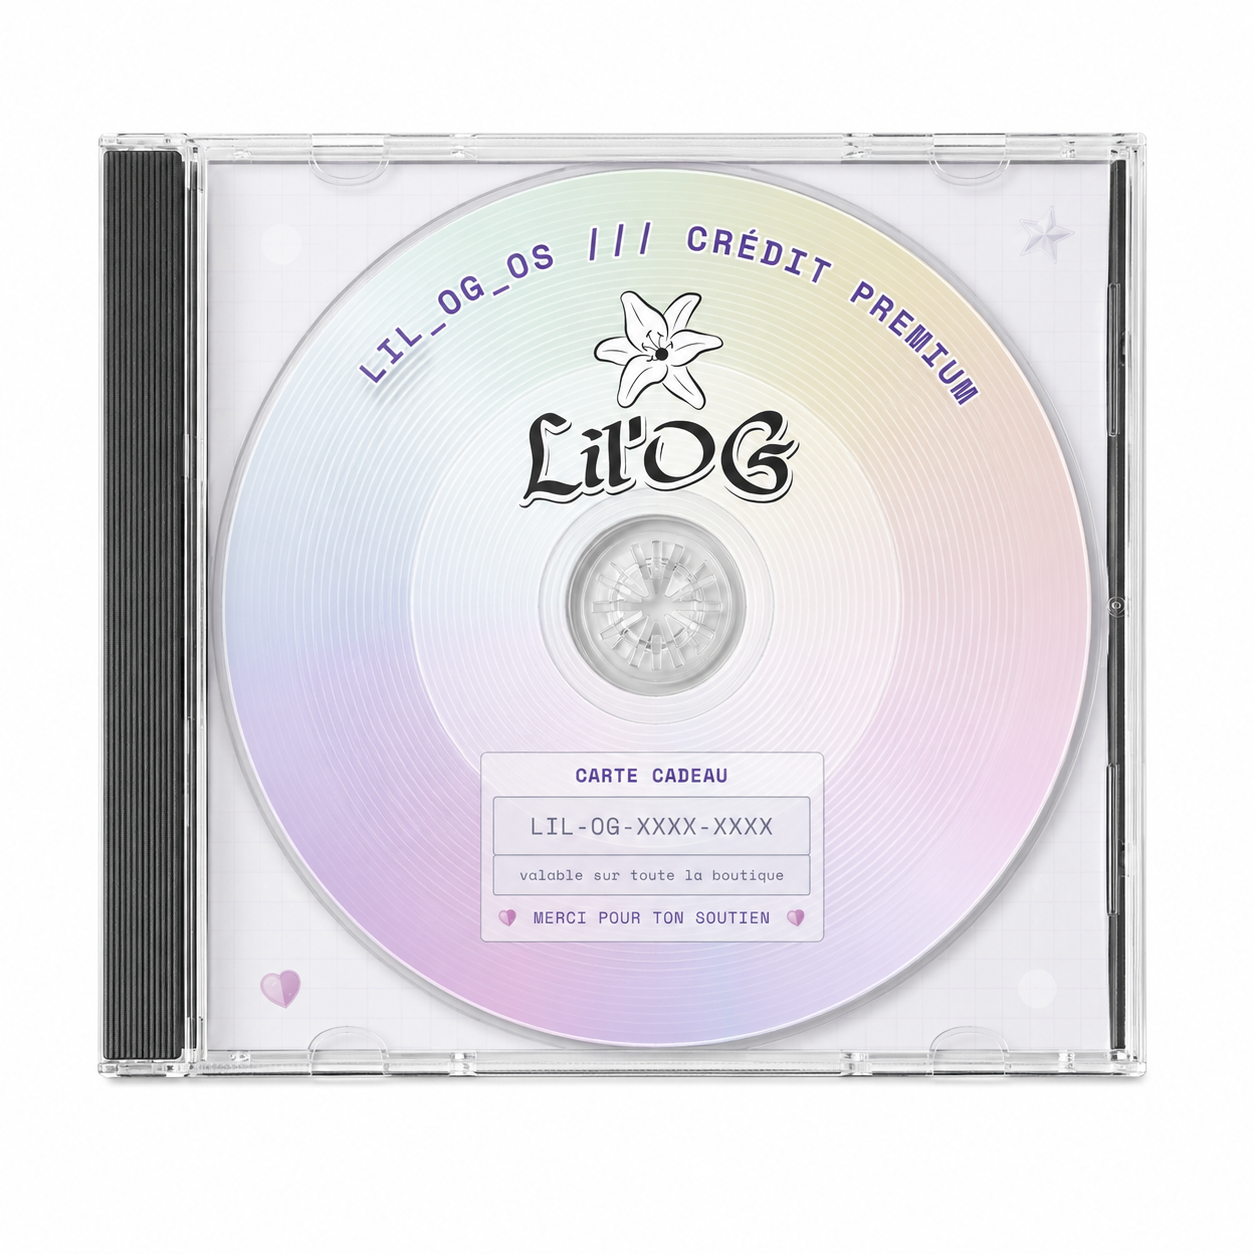
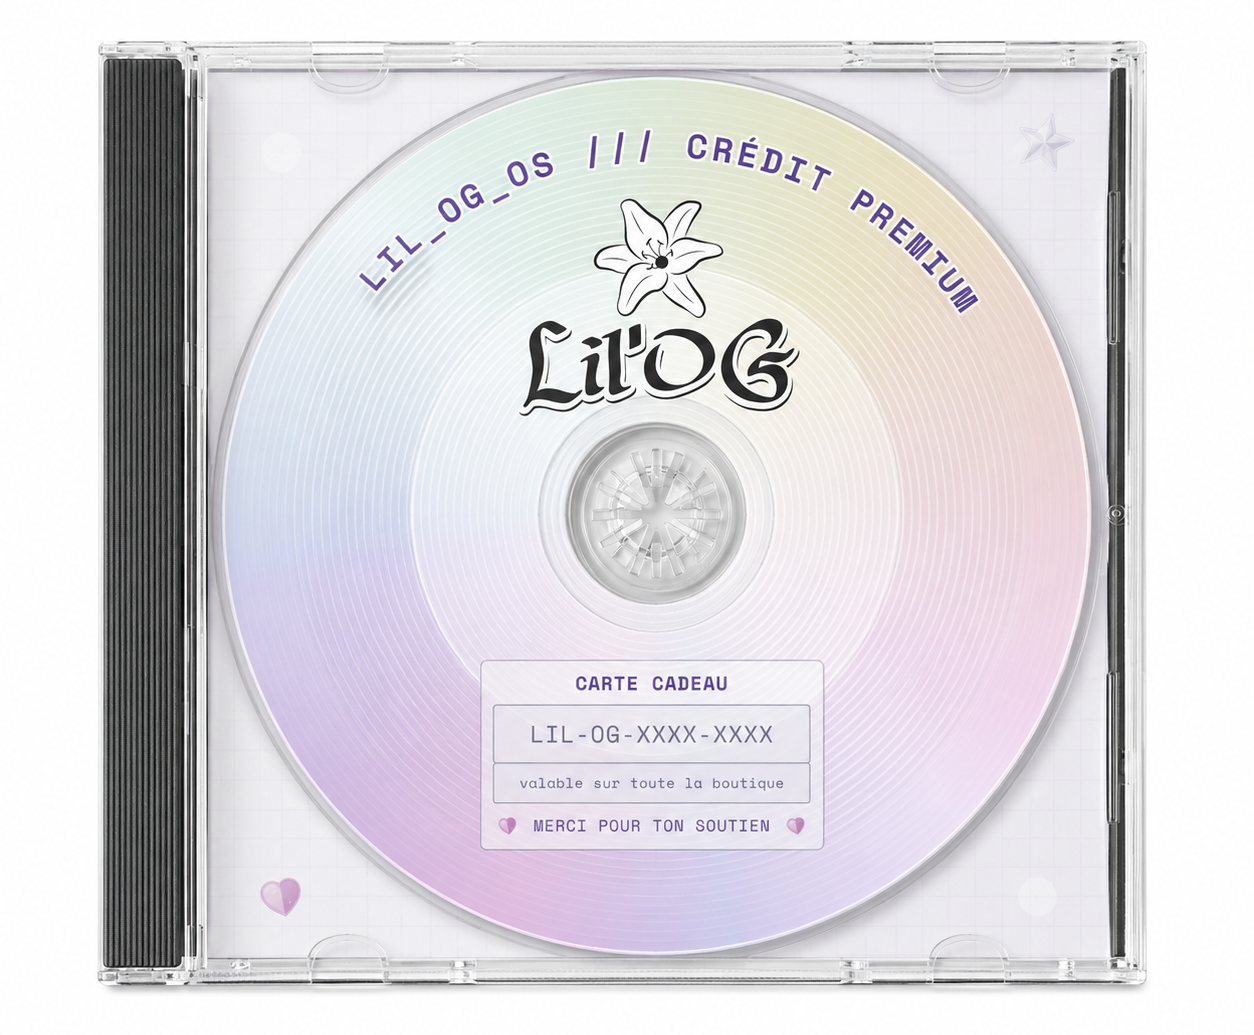
Carte cadeau : marges blanches réduites sur la photo du disque
L'image gardait environ 130 px de blanc au-dessus du boîtier et
167 px en dessous, sur un total de 1254 : au ratio carré imposé par
le composant, ce vide gonflait la hauteur du bloc (disque + voyant
noir) au-delà de celle du formulaire de droite.

L'image est recadrée pour ne garder qu'une marge de respiration au-
dessus et en dessous du boîtier (rognage vérifié pixel par pixel : le
contenu — étoile, boîtier, cœur — commence et finit largement en
dehors de la zone coupée). Largeur inchangée, hauteur 1254 → 1035.

CdRom suit désormais ce ratio réel (aspect-[1254/1035]) au lieu du
carré fixe : un carré aurait sinon réintroduit le même vide en creux,
côté mise en page cette fois, plutôt qu'en pixels dans le fichier.

Vérifié au navigateur à 1440 px avec quatre capacités simulées : le
bloc photo + voyant mesure 387 px de haut contre 565 px pour le
formulaire, et ne le dépasse donc plus. Vérifié aussi en mobile (une
colonne) : l'image reste nette, bien cadrée, aucun débordement
horizontal.

Claude-Session: https://claude.ai/code/session_01DdgRfEwaJYajSVLJDczDfx

Changed region(s): [[0.0622, 0.0309, 0.933, 0.9585], [0.1866, 0.2473, 0.2488, 0.371], [0.8708, 0.4638, 0.9019, 0.5256]]

diff --git a/src/components/gift-card/cd-rom.tsx b/src/components/gift-card/cd-rom.tsx
@@ -38,7 +38,11 @@ export function CdRom({
 
   return (
     <div
-      className="relative aspect-square w-full max-w-[420px] overflow-hidden rounded-[8px] bg-white/40 p-[4%] backdrop-blur-sm"
+      /* Le ratio suit celui du fichier (1254×1035) : gift-card-cd.png a été
+         recadré pour retirer l'essentiel des marges blanches au-dessus et
+         en dessous du boîtier, un carré aurait sinon réintroduit ce vide en
+         creux plutôt qu'en pixels. */
+      className="relative aspect-[1254/1035] w-full max-w-[420px] overflow-hidden rounded-[8px] bg-white/40 p-[4%] backdrop-blur-sm"
       style={{ boxShadow: "8px 8px 0 rgba(24,12,58,0.38)" }}
     >
       <style>{CD_CSS}</style>
